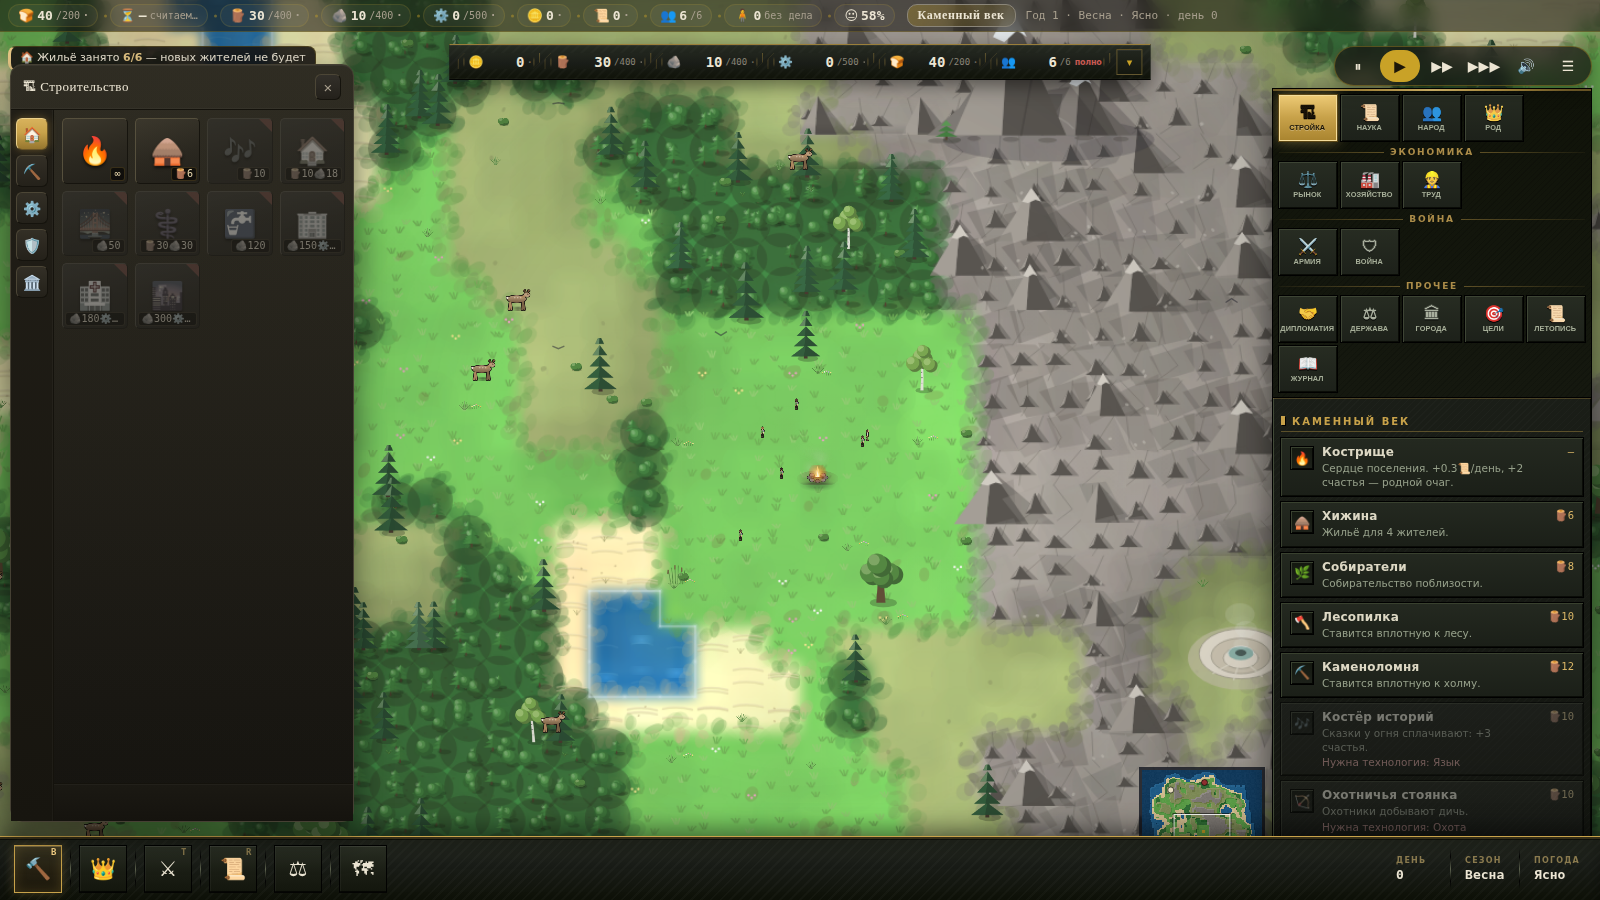
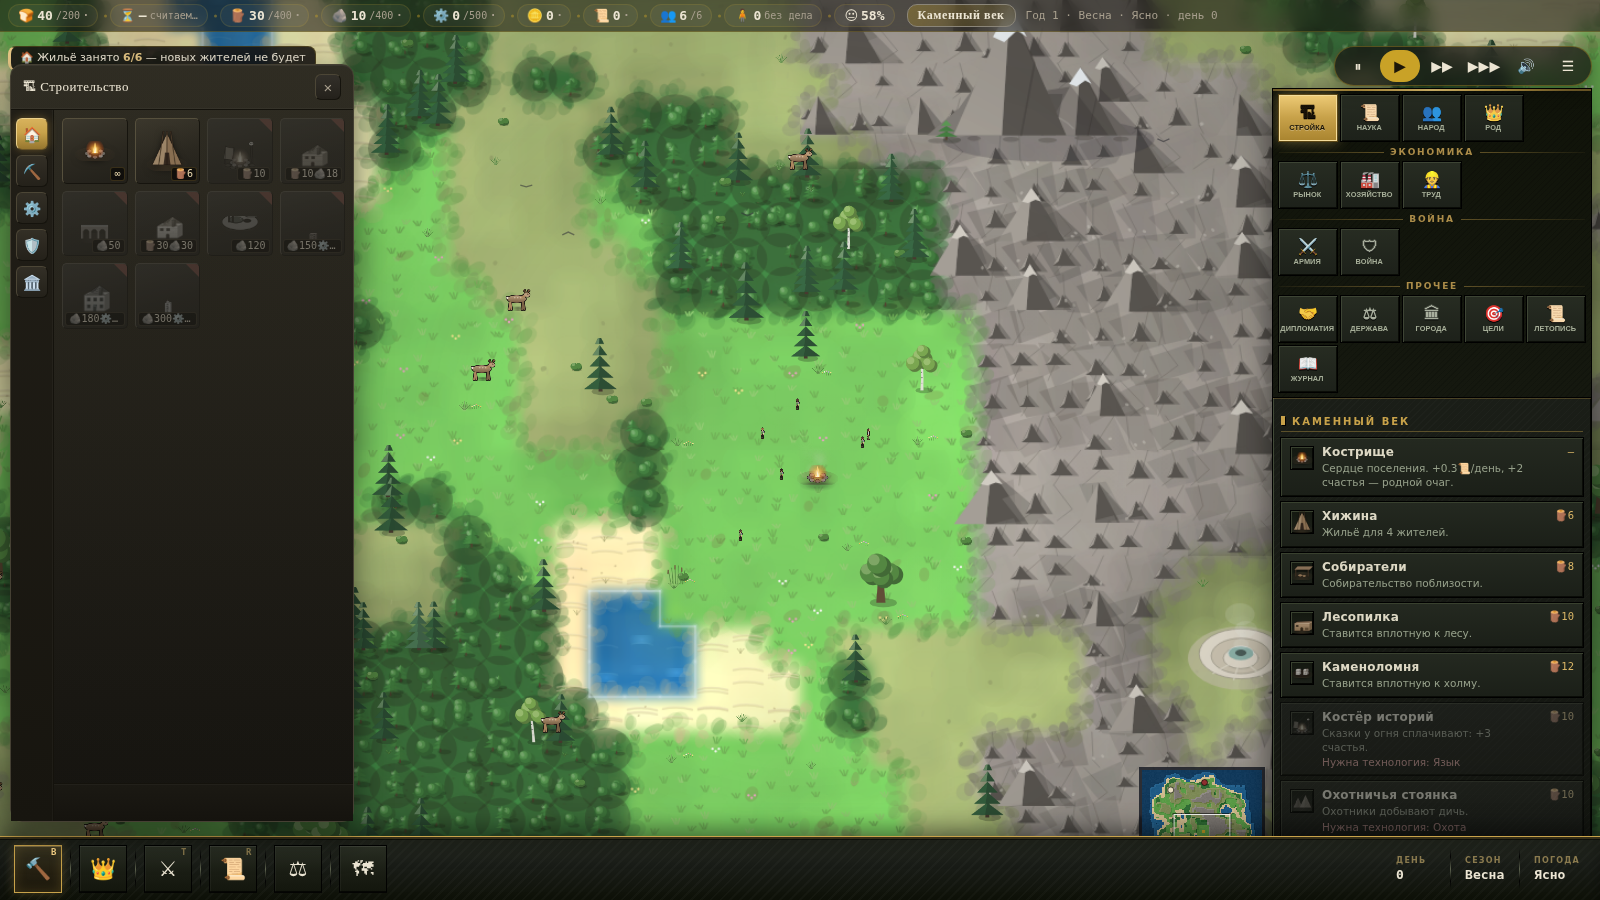
000: второй заход — спрайты в плитках, дубль полосы убран, честная опись
Закрыто: настоящие спрайты в обоих каталогах построек вместо эмодзи,
убран дубль полосы ресурсов. Тесты 1891/1891, FPS без просадки.

Ложный след записан прямо: отмывка рельефа УЖЕ ЕСТЬ (terrain.js,
this.shade — Ламбертово освещение), в аудите значилась ненаписанной из-за
грепа не того слова. Не добавлять заново.

Не трогал и объяснил почему: postfx/damage/biomes — якоря подключения
стухли против нынешнего renderer.js, применять по инструкции = сломать
кадр; Math.random в рендере — 9 мест в горячем коде, риск тонкой
регрессии ради невидимого.

Claude-Session: https://claude.ai/code/session_01A6YrcifM54qxcWsSEjEaM2

diff --git a/000_ПРОЧТИ_ПЕРВЫМ_ЗАДАНИЕ_НА_АУДИТ.md b/000_ПРОЧТИ_ПЕРВЫМ_ЗАДАНИЕ_НА_АУДИТ.md
@@ -256,3 +256,64 @@ FPS — максимум из трёх прогонов: одиночный за
 - Старый графический бэклог (эмодзи в плитках, отмывка рельефа,
   `Math.random` в рендере, дубль `topbar`) не трогал — по прямой просьбе
   владельца.
+
+---
+
+# Второй заход: интерфейс и честная опись «недоделанного»
+
+Владелец попросил «доделать всё, подключить всё». Прошёлся по списку из
+аудита. Часть закрыл, часть оказалась ложным следом, часть трогать
+опасно — по каждой сказано прямо.
+
+## Закрыто (проверено скриншотом и тестами)
+
+1. **Плитки построек — настоящие спрайты вместо эмодзи.** Оба каталога:
+   левая панель стройки и правый список `gns-row`. Новый
+   `ui/tile_sprites.js` печёт спрайт через тот же `SpriteCache`, что рисует
+   мир, и отдаёт data-URL. В headless провайдер не регистрируется —
+   эмодзи-фолбэк, тесты не тронуты. В браузере: 10 плиток со спрайтами,
+   0 с эмодзи, консоль чистая.
+2. **Убран дубль полосы ресурсов.** На экране было две полосы с теми же
+   числами — родная `#topbar` (полная) и плавающая `#ftResBar` (неполная).
+   Спрятана неполная, данные не потеряны.
+
+Тесты 1891/1891 зелёные, `Math.random` в core = 0, `sim.rng` в render = 0,
+FPS town/map/people **56/54/57** против baseline Альфы 59/43/53 —
+просадки нет.
+
+## Ложный след — НЕ ДЕЛАЙ ЭТОГО
+
+**Отмывка рельефа (hillshade) УЖЕ ЕСТЬ.** В аудите она значилась
+ненаписанной, потому что проверяющий грепал слово `hillshade` и получил 0.
+Фича называется иначе: `terrain.js`, поле `this.shade` — Ламбертово
+освещение от источника сверху-слева под 45°, применяется при печати чанков
+в пресетах medium/high/ultra (в `eco` выключена ради FPS). Это тот же класс
+ошибки, что я сам допускал в этой сессии — греп не того символа. **Не
+добавляй отмывку заново — задвоишь.** Если рельеф кажется плоским —
+причина в другом: горы рисуются спрайтами-треугольниками без вариации
+(тот же приём «разбить клонов хешем координат», что уже сделан для
+вражеских городов, просто не применён к горам).
+
+## Не трогал — и почему (не поломать важнее, чем подключить)
+
+- **postfx.js, damage.js, biomes.js** — блоки ПОДКЛЮЧЕНИЯ писались под
+  старый `renderer.js`, который с тех пор ушёл вперёд. Якорь импорта
+  `import { lightAt, WEATHER_TINT, hash2 }` больше не существует (сейчас
+  `import { lightAt, hash2, TERRAIN }` — без `WEATHER_TINT`), якорь
+  тонировки `if (L.tint[3] > 0.008)` исчез вовсе. Применить блоки «по
+  инструкции» — задвоить тонировку и сломать кадр. Это надо переводить
+  вручную, каждый вызов сверяя с текущим кадром, и мерить FPS после —
+  postfx в прошлой сессии стоил ~10 кадров на зеркальной виньетке.
+  Отдельная аккуратная работа, не «вставить по якорям».
+- **Math.random в renderer.js (9 мест)** — шум тумана, облака, птицы,
+  осадки. Сейвы это не ломает (рендер не трогает sim.rng), но шапка файла
+  утверждает обратное. Перевод на хеш от координат — корректность, но
+  9 мест в горячем коде кадра, каждое надо смотреть отдельно, иначе
+  подвижная картинка застынет или дёрнется. Не трогал в этот заход, чтобы
+  не внести тонкую регрессию ради невидимого глазу.
+- **Старый графический бэклог** (два каталога зданий как логика, а не
+  вид) — сложнее, отдельная работа.
+
+Итог: сделал безопасное и заметное, честно назвал рискованное. «Всё
+подключить» через стухшие якоря сломало бы игру — это ровно то, из-за чего
+проект уже накопил мёртвый код.
